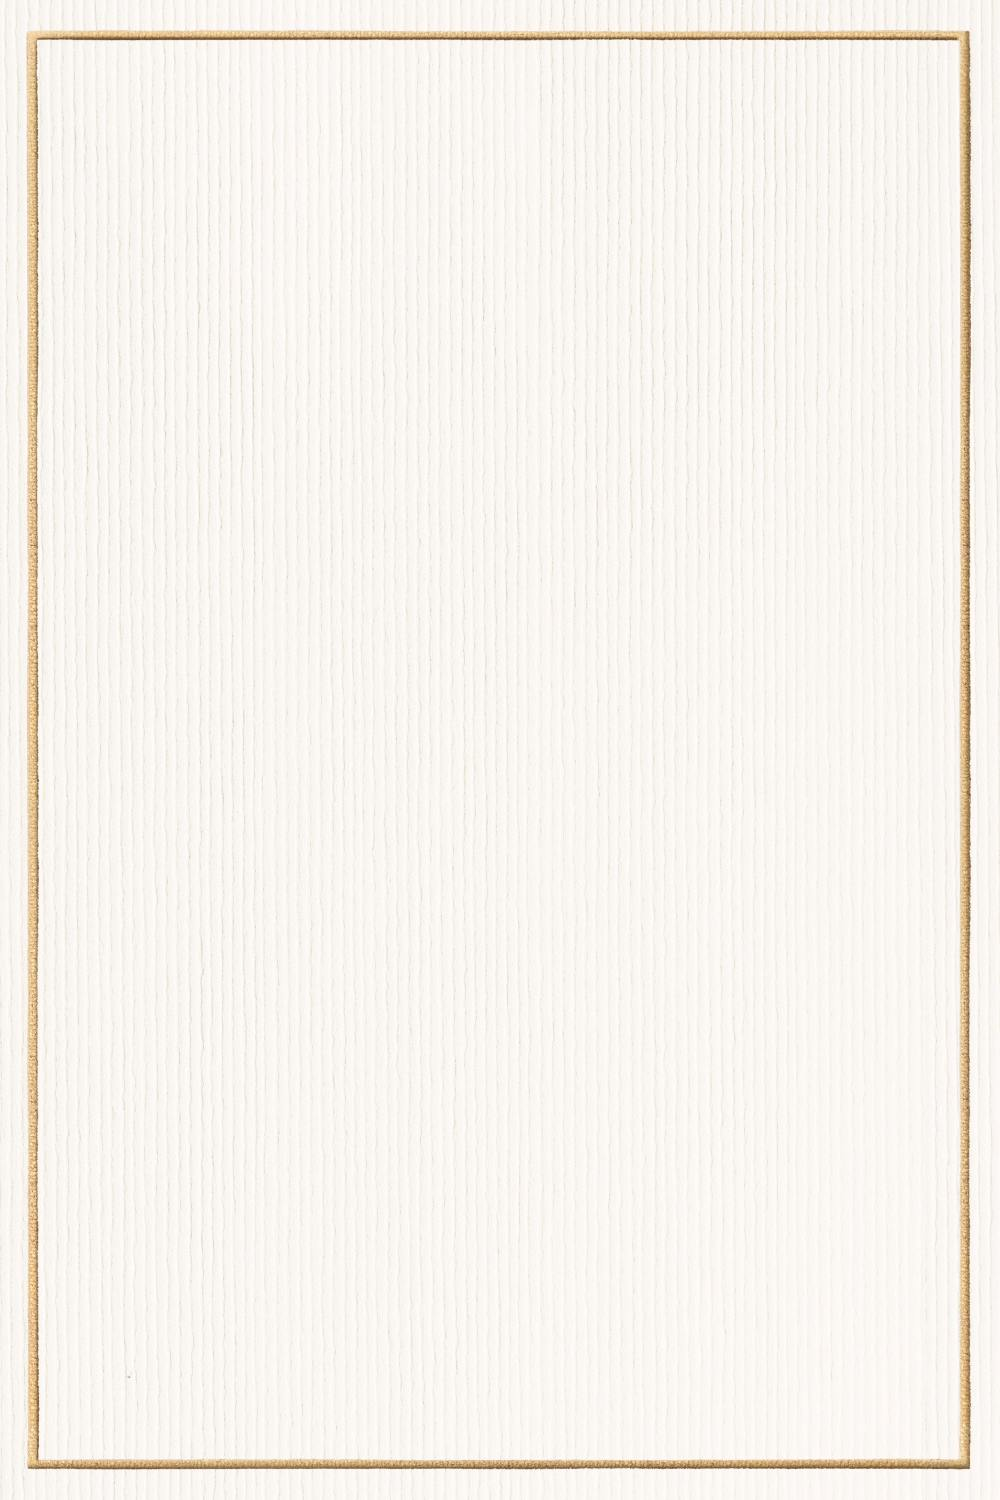
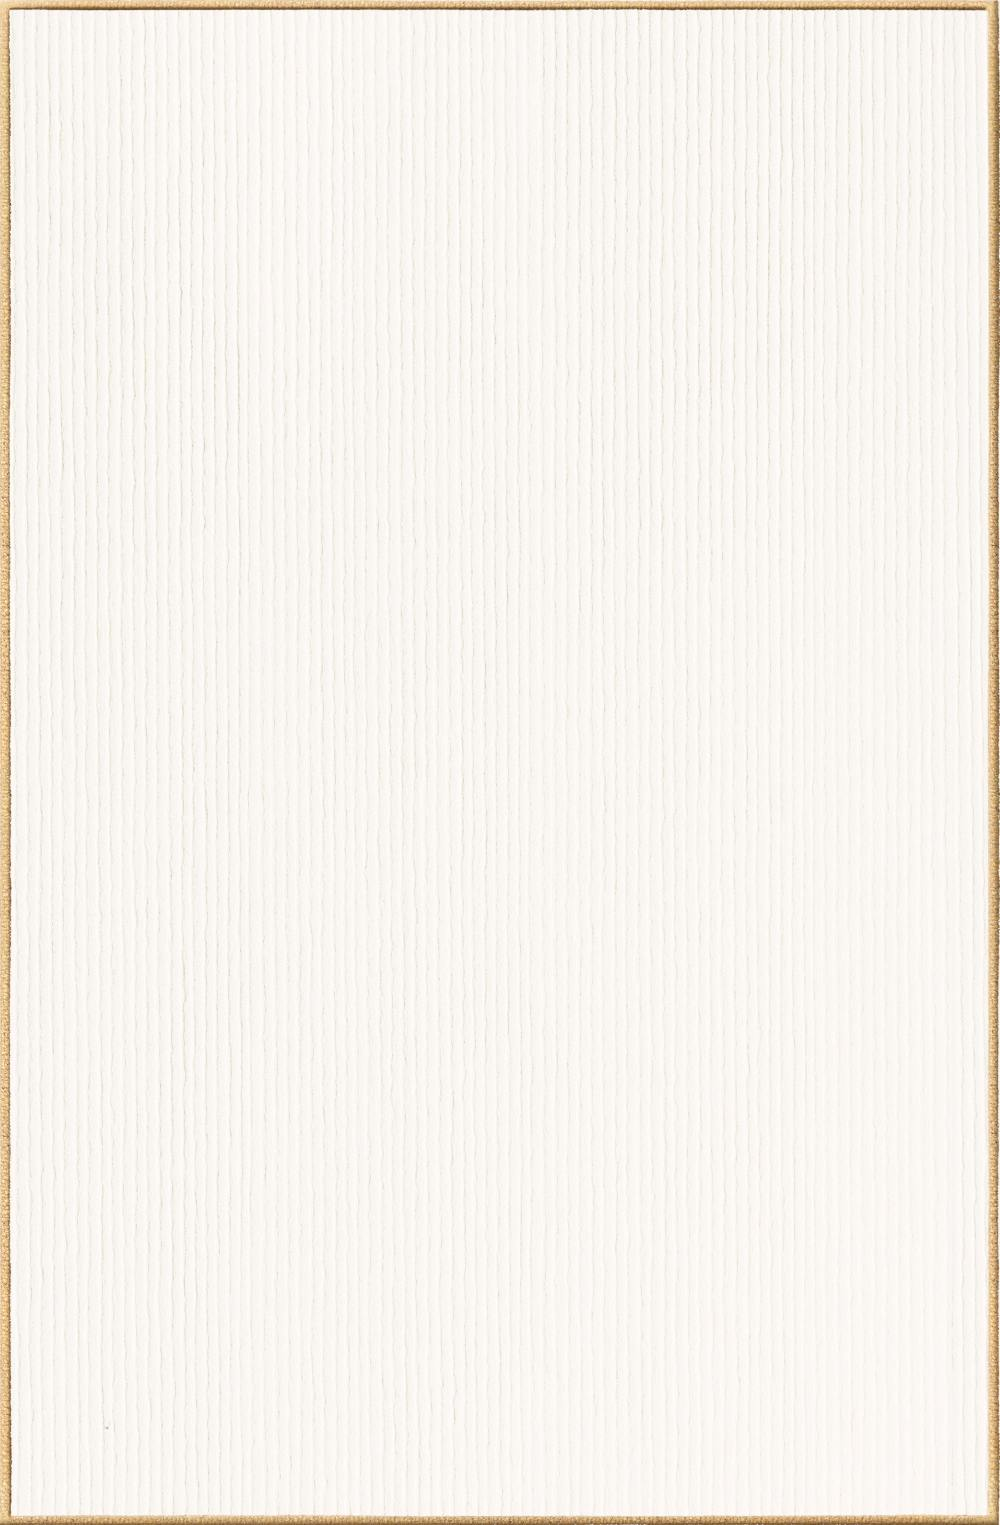
marco-album

Changed region(s): [[0.0, 0.0, 1.0, 1.0]]

diff --git a/assets/css/fotos.css b/assets/css/fotos.css
@@ -28,7 +28,7 @@ html, body {
   width: 92%;
   max-width: var(--container-width);
   margin: 0 auto;
-}
+ }
 
 /* Header */
 .site-header {
@@ -47,13 +47,28 @@ html, body {
 }
 
 /* Paginador */
+/* Paginador - OPCIÓN 2 CORREGIDA */
 .pager {
-  display: flex;
+  display: flex !important;  /* Fuerza el modo flexbox */
   gap: .75rem;
   align-items: center;
-  justify-content: center;
-  margin: 1rem 0;
+  justify-content: center !important; /* ← ¡ESTA LÍNEA ALINEA LOS BOTONES AL CENTRO! */
+  margin: 1rem auto !important;       /* Centra la barra entera en la pantalla */
+
+  /* El tamaño de tu barra fija */
+  width: 100% !important;
+  max-width: 350px; /* Sube este número a 400px o 450px si ves que los botones están muy apretados */
+
+  /* Tu fondo y diseño */
+  background-color: #f0f4f8; /* Cambia este color por el que más te guste */
+  padding: 8px 16px;         
+  border-radius: 8px;        
 }
+
+
+
+
+
 .page-link {
   color: var(--text);
   text-decoration: none;
@@ -74,7 +89,8 @@ html, body {
   display: grid;
   grid-template-columns: repeat(3, 1fr);
   gap: var(--gap);
-  margin: 1rem 0 3rem;
+  margin: 1rem 0 1rem;
+  width: 100%;
 }
 
 /* --- SOLUCIÓN: TARJETA ELÁSTICA DINÁMICA --- */
@@ -195,3 +211,28 @@ div[id*="poptrox"] {
 .fancybox-close-small, .fancybox-button--close {
     display: none !important;
 }
+
+/* Prueba con fondo con imagen desde paginas con botones iniciales hasta paginas con botones finales */
+.fondo-album {
+
+  /* 1. Mantenemos tus márgenes y espacios laterales perfectos */
+  margin-left: -50px; /* Usa el número que te funcionaba antes (ej. -30px o -50px) */
+  margin-right: -50px;
+  width: auto;
+  padding: 0 50px; 
+  box-sizing: border-box;
+
+  /* 2. Damos un pequeño respiro de espacio arriba y abajo */
+  padding-top: 30px !important;
+  padding-bottom: 30px !important;
+
+  /* 3. Tus propiedades de la imagen */
+  background-image: url('./../../otros/rectangle-gold-paper.jpg') !important; 
+  background-repeat: no-repeat;
+  background-position: center;
+
+  /* 4. EL CAMBIO CLAVE: El primer valor (105%) estira la imagen hacia los lados. */
+  /* El segundo valor (96%) encoge la imagen arriba y abajo para que no pise los botones */
+  background-size: 100% 96% !important; 
+}
+

diff --git a/album01.html b/album01.html
@@ -47,6 +47,10 @@
   </header>
 
   <main class="container">
+
+
+<div class="fondo-album">
+ 
     <nav class="pager top-pager">
       <a class="page-link" href="index.html">Página 1</a>
       <span class="current">Página 2</span>
@@ -125,6 +129,9 @@
       <span class="current">Página 2</span>
       <a class="page-link" href="index3.html">Página 3</a>
     </nav>
+
+</div>
+
   </main>
 
   <footer class="site-footer">

diff --git a/assets/css/pinturas.css b/assets/css/pinturas.css
@@ -233,3 +233,4 @@ h2 {
     box-shadow: none !important;
     outline: none !important;
 }
+